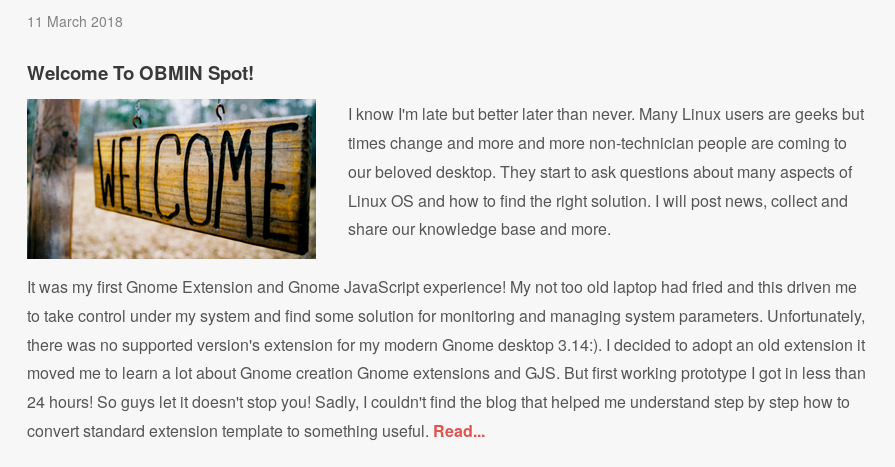
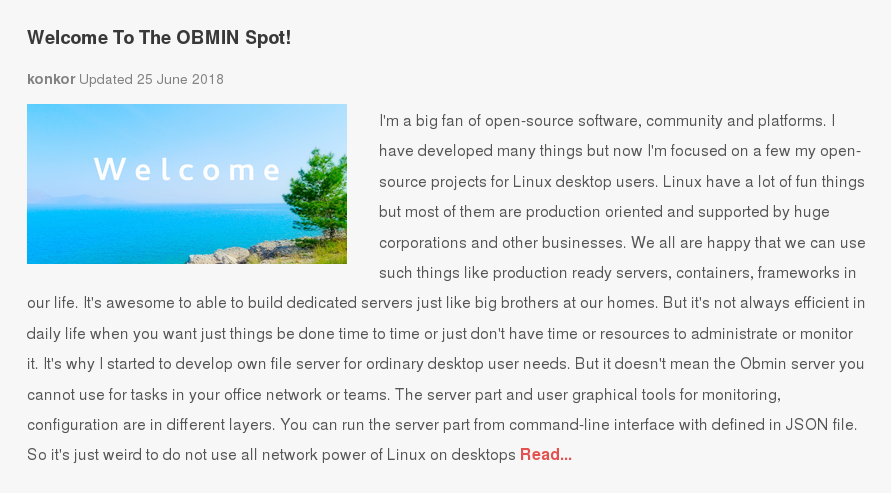
Add welcome post Update links, assets, etc

diff --git a/_layouts/blog.html b/_layouts/blog.html
@@ -3,18 +3,14 @@ layout: default
 ---
 <section class="post">
 
-  {% if page.description %}
-    <p class="description">{{ page.description }}</p>
-  {% endif %}
-
-  <br>
   <ul class="post-list">
     {% for doc in site.posts %}
       <li>
-        <span class="post-meta">{{ doc.date | date_to_long_string }}</span>
+
         <a href="{{ doc.url | relative_url }}">
           <h3 class="post-title">{{ doc.title }}</h3>
         </a>
+		<div class="post-meta"> <b> {{ doc.author | "konkor" }} </b> Updated {{ doc.date | date_to_long_string }}</div>
         {% if doc.image %}
           <img alt="" src="{{ doc.image | relative_url }}" align="left" style="max-width:100%;max-height:160px;width:auto;height:auto;display:inline-block;margin:0 32px 0 0">
         {% endif %}
@@ -27,5 +23,9 @@ layout: default
   <div class="post-content">
     {{ content }}
   </div>
+
+  {% if page.description %}
+    <p class="description">{{ page.description }}</p>
+  {% endif %}
 
 </section>

diff --git a/_includes/footer.html b/_includes/footer.html
@@ -27,11 +27,11 @@
       </div>
       <div class="col4">
         <ul>
-          <li><a href="{{ "/" | relative_url }}"><h3>Resources</h3></a></li>
-          <li><a href="{{ "/" | relative_url }}">Download</a></li>
-          <li><a href="{{ "/" | relative_url }}">Source code</a></li>
-          <li><a href="{{ "/" | relative_url }}">Gnome page</a></li>
-          <li><a href="{{ "/" | relative_url }}">G+ Community</a></li>
+          <li><a href="{{ "/resources" | relative_url }}"><h3>Resources</h3></a></li>
+          <li><a href="https://github.com/konkor/obmin/tree/master/releases">Download</a></li>
+          <li><a href="https://github.com/konkor/obmin">Source code</a></li>
+          <li><a href="https://extensions.gnome.org/extension/1254/obmin/">Gnome page</a></li>
+          <li><a href="https://plus.google.com/communities/111793545135238329562">G+ Community</a></li>
         </ul>
       </div>
     </div>

diff --git a/_includes/header.html b/_includes/header.html
@@ -6,6 +6,7 @@
 
   <ul class="routes">
     <li><a href="{{ "/about" | relative_url }}" {% if active[1] == 'about' %}class="active"{% endif %}>Features</a></li>
+	<li><a href="{{ "/blog" | relative_url }}" {% if active[1] == 'blog' %}class="active"{% endif %}>Articles</a></li>
     <li><a href="{{ "/explore" | relative_url }}" {% if active[1] == 'explore' %}class="active"{% endif %}>Explore</a></li>
     <li><a href="{{ "/documentation" | relative_url }}" {% if active[1] == 'documentation' %}class="active"{% endif %}>Documentation</a></li>
     <li><a href="{{ "/resources" | relative_url }}" {% if active[1] == 'resources' %}class="active"{% endif %}>Resources</a></li>

diff --git a/_sass/content.scss b/_sass/content.scss
@@ -2,11 +2,14 @@
 
 .content {
   padding: 40px;
-  line-height: 1.8;
+  line-height: 1.9;
   @media(max-width: 768px) {
     padding: 15px;
   }
 
+  p {
+	margin: 0 0 16px;
+  }
   a {
     color: $dark-orange;
     font-weight: 700;
@@ -22,12 +25,11 @@
   }
 
   .description {
-    margin: 0;
+    margin: 0 0 16px;
     padding: 15px;
     color: #545454;
     font-size: 16px;
     font-weight: 700;
-    background-color: #fefefe;
     border-left: 4px solid $dark-orange;
   }
 

diff --git a/_layouts/post.html b/_layouts/post.html
@@ -5,6 +5,7 @@ layout: default
 <section class="post">
 
   <div class="post-content">
+	<div class="post-meta"> <b> {{ page.author }} </b> Updated {{ page.date | date_to_long_string }}</div>
     {{ content }}
 	{% if page.comments %}
 	<div id="disqus_thread"></div>

diff --git a/_layouts/default.html b/_layouts/default.html
@@ -6,8 +6,8 @@
     <div id="root">
       <div class="wrapper">
         <div class="header">
-          <h1>OBMIN - {{ page.title | escape }}</h1>
-          
+          <h1> {{ page.title | escape }}</h1>
+
         </div>
         <div class="container">
 

diff --git a/_sass/posts.scss b/_sass/posts.scss
@@ -12,8 +12,13 @@
 
 .post-meta {
   font-size: 14px;
-  color: #828282; }
+  color: #828282;
+  margin-bottom: 12px; }
 
 .post-link {
   display: block;
   font-size: 24px; }
+
+#disqus_thread {
+  margin-top: 24px;
+}

diff --git a/_sass/header.scss b/_sass/header.scss
@@ -9,7 +9,7 @@
   padding: 15px;
   h1 {
     color: #444444;
-    font-size: 24px;
+    font-size: 28px;
     font-weight: normal;
   }
   ul {

diff --git a/resources.md b/resources.md
@@ -5,17 +5,18 @@ description:  Project Downloads, Sources, Pages, Other External Links, and Resou
 layout: default
 ---
 
-# [DEB package](https://github.com/konkor/obmin/raw/master/releases/obmin_latest_all.deb)
+# [DEB package](https://github.com/konkor/obmin/blob/master/releases/)
 <p class="description">Download the latest stable <b>deb</b> package for the complete system integration on GNU/Linux Debian/Ubuntu flavors.</p>
-<a href="{{ "/blog" | relative_url }}"><img src="{{ "/assets/images/blogs.png" | relative_url }}" style="max-width:100%;max-height:27vh;width:auto;height:auto"/></a>
+<a href="https://github.com/konkor/obmin/raw/master/releases/obmin_latest_all.deb"><img src="{{ "/assets/images/debs.png" | relative_url }}" style="max-width:100%;max-height:43vh;width:auto;height:auto" title="Get latest deb package..." /></a>
 
-# [Gnome Extension Package](https://github.com/konkor/obmin/raw/master/releases/obmin@konkor.zip)
-<p class="description">The latest Gnome extension package for Gnome Desktop environment only.</p>
+# [Gnome Extension Package](https://github.com/konkor/obmin/blob/master/releases/)
+<p class="description">The latest Gnome extension package for Gnome Desktop environment.</p>
+<a href="https://github.com/konkor/obmin/raw/master/releases/obmin%40konkor.zip"><img src="{{ "/assets/images/zips.png" | relative_url }}" style="max-width:100%;max-height:43vh;width:auto;height:auto" title="Get latest gnome extension package..." /></a>
 
 # [Source Code](https://github.com/konkor/obmin)
 <p class="description">The GitHub project's page.</p>
-//TODO
+<a href="https://github.com/konkor/obmin"><img src="{{ "/assets/images/github_page.png" | relative_url }}" style="max-width:100%;max-height:43vh;width:auto;height:auto" title="Obmin source code on GitHub..." /></a>
 
-# [Gnome Extensions Repository](https://extensions.gnome.org/extension/1254/obmin/)
-<p class="description">The OBMIN Server project's page on the Gnome extensions repository.</p>
-//TODO
+# [Gnome Extensions Page](https://extensions.gnome.org/extension/1254/obmin/)
+<p class="description">The OBMIN Server project's page on the Gnome extensions site.</p>
+<a href="https://extensions.gnome.org/extension/1254/obmin/"><img src="{{ "/assets/images/gnome_page.png" | relative_url }}" style="max-width:100%;max-height:43vh;width:auto;height:auto" title="Gnome Obmin Page" /></a>

diff --git a/explore.md b/explore.md
@@ -7,23 +7,21 @@ layout: default
 
 # [OBMIN Blog]({{ "/blog" | relative_url }})
 <p class="description">Check the OBMIN Server posts to find something new, useful or interesting.</p>
-<a href="{{ "/blog" | relative_url }}"><img src="{{ "/assets/images/blogs.png" | relative_url }}" style="max-width:100%;max-height:27vh;width:auto;height:auto"/></a>
+<a href="{{ "/blog" | relative_url }}"><img src="{{ "/assets/images/blogs.png" | relative_url }}" style="max-width:100%;max-height:27vh;width:auto;height:auto" title="Obmin blog posts and related articles" /></a>
 
 # [Features]({{ "/about" | relative_url }})
 
 <p class="description">Take a look at the feature list to find out what's the project about.</p>
+<a href="{{ "/about" | relative_url }}"><img src="{{ "/assets/images/features.png" | relative_url }}" style="max-width:100%;max-height:27vh;width:auto;height:auto" title="Features" /></a>
 
 # [Screenshots]({{ "/screenshots" | relative_url }})
 <p class="description">Overview of various UI elements from different installations and environments.</p>
 
-<a href="{{ "/screenshots" | relative_url }}"><img src="{{ "/assets/images/screenshots/screenshots.png" | relative_url }}" style="max-width:100%;max-height:27vh;width:auto;height:auto"/></a>
+<a href="{{ "/screenshots" | relative_url }}"><img src="{{ "/assets/images/screenshots/screenshots.png" | relative_url }}" style="max-width:100%;max-height:27vh;width:auto;height:auto" title="Various screenshots" /></a>
 
 # [Video]({{ "/video" | relative_url }})
 <p class="description">Project's video and screencasts.</p>
-<a href="{{ "/video" | relative_url }}"><img src="{{ "/assets/images/videos.png" | relative_url }}" style="max-width:100%;max-height:37vh;width:auto;height:auto"/></a>
+<a href="{{ "/video" | relative_url }}"><img src="{{ "/assets/images/videos.png" | relative_url }}" style="max-width:100%;max-height:37vh;width:auto;height:auto" title="Youtube videos" /></a>
 
 # [Social Networks](#)
-//TODO
-
-# [Roadmap](#)
-//TODO
+<a href="{{ "/about" | relative_url }}"><img src="{{ "/assets/images/gplus.png" | relative_url }}" style="max-width:100%;max-height:27vh;width:auto;height:auto" title="G+ community" /></a>
